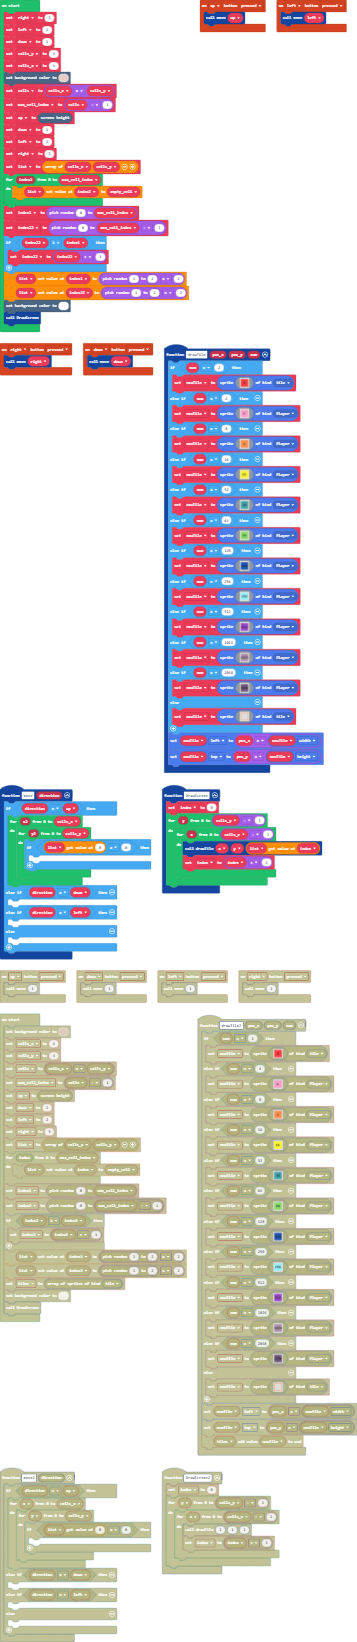
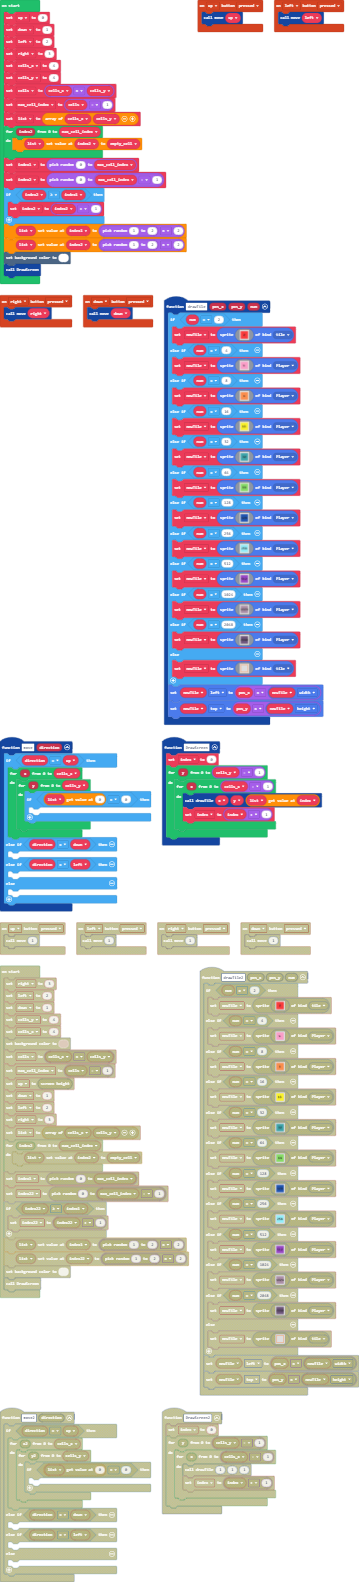
Update pxt.json, main.blocks, main.ts

diff --git a/main.ts b/main.ts
@@ -365,8 +365,8 @@ function drawTile (pos_x: number, pos_y: number, num: number) {
 }
 function move (direction: number) {
     if (direction == up) {
-        for (let x2 = 0; x2 <= cells_x; x2++) {
-            for (let y2 = 0; y2 <= cells_y; y2++) {
+        for (let x = 0; x <= cells_x; x++) {
+            for (let y = 0; y <= cells_y; y++) {
                 if (list[0] == 0) {
                 	
                 }
@@ -383,27 +383,31 @@ function move (direction: number) {
 let newTile: Sprite = null
 let index = 0
 let list: number[] = []
+let cells_y = 0
+let cells_x = 0
+let right = 0
+let left = 0
+let down = 0
 let up = 0
-let down = 1
-let left = 2
-let right = 3
-let cells_x = 4
-let cells_y = 4
-let empty_cell = 0
-scene.setBackgroundColor(13)
+up = 0
+down = 1
+left = 2
+right = 3
+cells_x = 4
+cells_y = 4
 let cells = cells_x * cells_y
 let max_cell_index = cells - 1
-up = scene.screenHeight()
 list = [cells_x, cells_y]
 for (let index2 = 0; index2 <= max_cell_index; index2++) {
+    let empty_cell = 0
     list[index2] = empty_cell
 }
 let index1 = randint(0, max_cell_index)
-let index22 = randint(0, max_cell_index - 1)
-if (index22 >= index1) {
-    index22 = index22 + 1
+let index2 = randint(0, max_cell_index - 1)
+if (index2 >= index1) {
+    index2 = index2 + 1
 }
 list[index1] = randint(1, 2) * 2
-list[index22] = randint(1, 2) * 2
+list[index2] = randint(1, 2) * 2
 scene.setBackgroundColor(1)
 DrawScreen()
